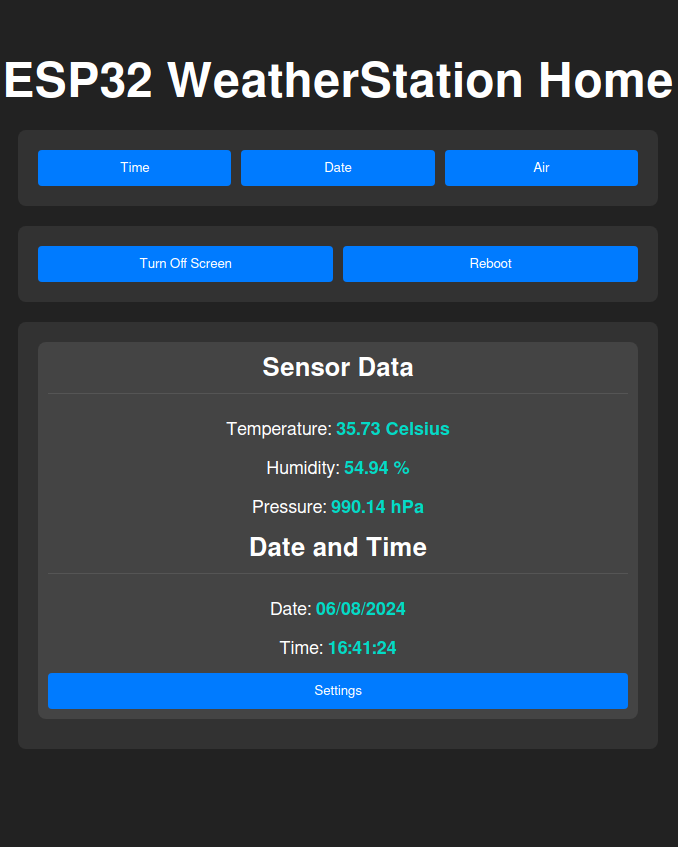
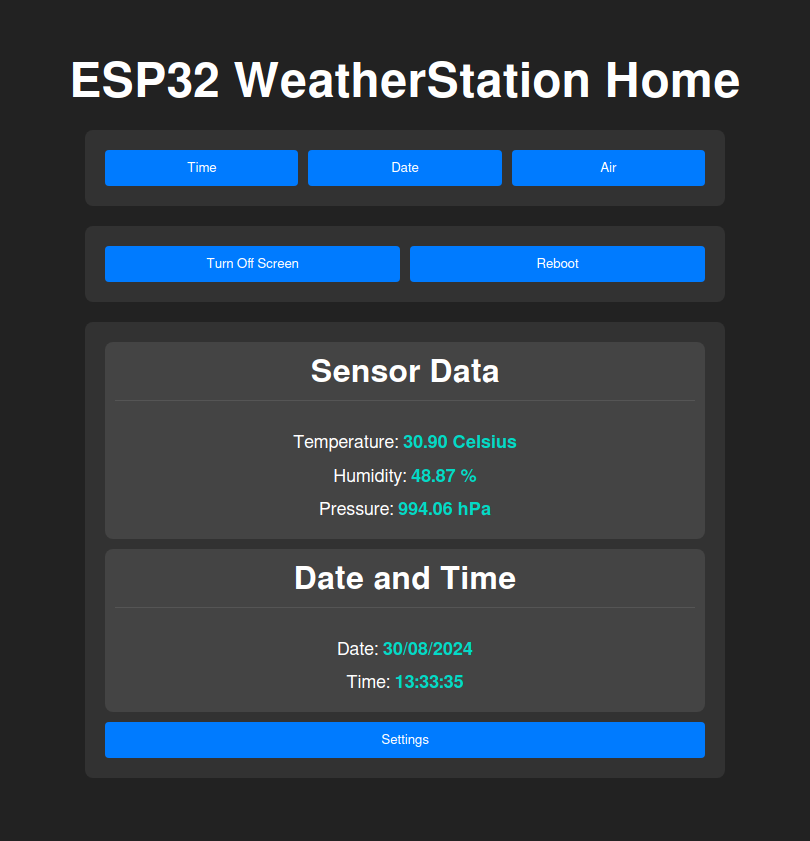
fix: web pages

diff --git a/data/home.html b/data/home.html
@@ -69,8 +69,7 @@
               font-size: 18px;
               line-height: 1.6;
               margin: 5px;
-              margin-left: 18%;
-              text-align: left;
+              text-align: center;
             }
             .data {
               font-weight: bold;
@@ -85,7 +84,7 @@
             .section h2 {
               text-align: center;
               margin-top: 0;
-              font-size: 1.6em;
+              font-size: 2em;
               border-bottom: 1px solid #555;
               padding-bottom: 10px;
             }

diff --git a/data/settings.html b/data/settings.html
@@ -59,13 +59,14 @@
             .section h2 {
               text-align: center;
               margin-top: 0;
-              font-size: 1.6em;
+              font-size: 2em;
               border-bottom: 1px solid #555;
               padding-bottom: 10px;
             }
             label {
               display: block;
               margin-bottom: 10px;
+              font-size: 1.2em;
             }
             input[type="text"],
             select,
